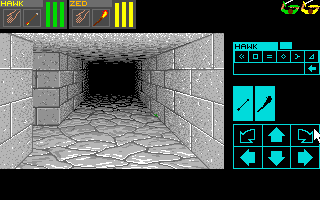
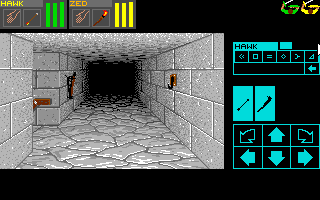
2026-10-09 v 25

diff --git a/Assets/Editor/ViewportLayoutEditor.cs b/Assets/Editor/ViewportLayoutEditor.cs
@@ -451,6 +451,14 @@ public class ViewportLayoutEditor : EditorWindow
   private bool stairsdownS2Enabled = true;
 
   // Independent S2 LEFT calibration for (4,15) North; UI only until verified.
+  // F2 North stairs-down: separate editable calibration for (4,16) North.
+  private const string StairsdownS2F2NorthPrefsPrefix = "DM.ViewEdit.StairsdownS2F2North.";
+  private const string StairsdownS2F2NorthAccepted = "32|95|false|true";
+  private int stairsdownS2F2NorthX = 0;
+  private int stairsdownS2F2NorthTopY = 96;
+  private bool stairsdownS2F2NorthMirror;
+  private bool stairsdownS2F2NorthEnabled = true;
+
   private const string StairsdownS2LeftPrefsPrefix = "DM.ViewEdit.StairsdownS2Left.";
   private const string StairsdownS2LeftAccepted = "0|106|false|true";
   private int stairsdownS2LeftX;
@@ -17128,6 +17136,9 @@ private static void HandleGameViewPointerDown(
     // Independent North-facing S0 side detail.
     BlitStairsS0NorthIntoPreview(pixels);
 
+    // Calibrated 20x39 down-stairs image at 4,16 North (independent S2 F2 case).
+    BlitStairsdownS2F2NorthIntoPreview(pixels);
+
     // All floor features and wall ornaments are composed only after the full
     // map/wall/door image pass has finished. This keeps feature artwork out of
     // the geometry painter order and gives it one explicit post-map layer.
@@ -20972,6 +20983,10 @@ private static void HandleGameViewPointerDown(
     stairsdownS2TopY = EditorPrefs.GetInt(StairsdownS2PrefsPrefix + "Y", 96);
     stairsdownS2Mirror = EditorPrefs.GetBool(StairsdownS2PrefsPrefix + "Mirror", false);
     stairsdownS2Enabled = EditorPrefs.GetBool(StairsdownS2PrefsPrefix + "Enabled", true);
+    stairsdownS2F2NorthX = EditorPrefs.GetInt(StairsdownS2F2NorthPrefsPrefix + "X", 0);
+    stairsdownS2F2NorthTopY = EditorPrefs.GetInt(StairsdownS2F2NorthPrefsPrefix + "Y", 96);
+    stairsdownS2F2NorthMirror = EditorPrefs.GetBool(StairsdownS2F2NorthPrefsPrefix + "Mirror", false);
+    stairsdownS2F2NorthEnabled = EditorPrefs.GetBool(StairsdownS2F2NorthPrefsPrefix + "Enabled", true);
     stairsdownS2LeftX = EditorPrefs.GetInt(StairsdownS2LeftPrefsPrefix + "X", 0);
     stairsdownS2LeftTopY = EditorPrefs.GetInt(StairsdownS2LeftPrefsPrefix + "Y", 106);
     stairsdownS2LeftMirror = EditorPrefs.GetBool(StairsdownS2LeftPrefsPrefix + "Mirror", false);
@@ -24136,6 +24151,9 @@ private static void HandleGameViewPointerDown(
     // The D0L controls for (4,15) South are preserved unchanged.
     if (IsStairsdownS2CalibrationPose())
       DrawStairsdownS2CalibrationRow();
+    // F2 North reference (4,16): independent S2 20x39 calibration.
+    if (previewX == 4 && previewY == 16 && previewFacing == DungeonFacing.North)
+      DrawStairsdownS2F2NorthCalibrationRow();
     // North S0 reference: independent calibration; does not modify South S2 or South S0.
     if (previewX == 4 && previewY == 15 && previewFacing == DungeonFacing.North)
       DrawStairsdownS2LeftCalibrationRow();
@@ -24230,6 +24248,36 @@ private static void HandleGameViewPointerDown(
     }
     BlitPieceIntoPreview(pixels, sprite, stairsdownS2LeftX,
         DisplayYToUnityY(stairsdownS2LeftTopY, sprite.height), stairsdownS2LeftMirror);
+  }
+
+  private void BlitStairsdownS2F2NorthIntoPreview(Color32[] pixels)
+  {
+    if (pixels == null || !stairsdownS2F2NorthEnabled
+        || previewX != 4 || previewY != 16
+        || previewFacing != DungeonFacing.North)
+      return;
+
+    const string assetPath = "Assets/Art/Walls/Stairs/Stairsdown_S2_20x39.png";
+    Texture2D sprite = AssetDatabase.LoadAssetAtPath<Texture2D>(assetPath);
+    if (sprite == null)
+    {
+      Debug.LogError("STAIRSDOWN S2 F2 NORTH: missing asset: " + assetPath);
+      return;
+    }
+    if (sprite.width != 20 || sprite.height != 39)
+    {
+      Debug.LogError("STAIRSDOWN S2 F2 NORTH: expected 20x39, got "
+          + sprite.width + "x" + sprite.height + " at " + assetPath);
+      return;
+    }
+    if (!sprite.isReadable)
+    {
+      Debug.LogError("STAIRSDOWN S2 F2 NORTH: enable Read/Write on " + assetPath);
+      return;
+    }
+    BlitPieceIntoPreview(pixels, sprite, stairsdownS2F2NorthX,
+        DisplayYToUnityY(stairsdownS2F2NorthTopY, sprite.height),
+        stairsdownS2F2NorthMirror);
   }
 
   // Temporary calibration only. Do not generalize this S2 side view
@@ -24378,6 +24426,116 @@ private static void HandleGameViewPointerDown(
     }
     if (apply)
       SaveStairsdownS2AcceptedToSource();
+  }
+
+  private bool SaveStairsdownS2F2NorthAcceptedToSource()
+  {
+    string assetPath = GetThisEditorSourceAssetPath();
+    if (string.IsNullOrEmpty(assetPath) || !File.Exists(assetPath))
+    {
+      Debug.LogError("STAIRSDOWN S2 Apply: source script is missing: " + assetPath);
+      return false;
+    }
+    const string token = "private const string StairsdownS2F2NorthAccepted = \"";
+    try
+    {
+      string source = File.ReadAllText(assetPath);
+      int begin = source.IndexOf(token, System.StringComparison.Ordinal);
+      if (begin < 0 || source.IndexOf(token, begin + token.Length,
+          System.StringComparison.Ordinal) >= 0)
+      {
+        Debug.LogError("STAIRSDOWN S2 Apply: expected exactly one saved-values marker in " + assetPath);
+        return false;
+      }
+      int valueBegin = begin + token.Length;
+      int valueEnd = source.IndexOf('"', valueBegin);
+      if (valueEnd < 0)
+      {
+        Debug.LogError("STAIRSDOWN S2 Apply: unterminated saved-values marker in " + assetPath);
+        return false;
+      }
+      string accepted = stairsdownS2F2NorthX.ToString() + "|" + stairsdownS2F2NorthTopY.ToString()
+          + "|" + (stairsdownS2F2NorthMirror ? "true" : "false")
+          + "|" + (stairsdownS2F2NorthEnabled ? "true" : "false");
+      string updated = source.Substring(0, valueBegin) + accepted + source.Substring(valueEnd);
+      if (updated != source)
+        File.WriteAllText(assetPath, updated);
+      // Preserve values through the pending Unity domain/script reload.
+      EditorPrefs.SetInt(StairsdownS2F2NorthPrefsPrefix + "X", stairsdownS2F2NorthX);
+      EditorPrefs.SetInt(StairsdownS2F2NorthPrefsPrefix + "Y", stairsdownS2F2NorthTopY);
+      EditorPrefs.SetBool(StairsdownS2F2NorthPrefsPrefix + "Mirror", stairsdownS2F2NorthMirror);
+      EditorPrefs.SetBool(StairsdownS2F2NorthPrefsPrefix + "Enabled", stairsdownS2F2NorthEnabled);
+      RefreshEditModePreview();
+      RepaintGameViews();
+      Repaint();
+      if (updated != source)
+        AssetDatabase.ImportAsset(assetPath, ImportAssetOptions.ForceUpdate);
+      return true;
+    }
+    catch (System.Exception exception)
+    {
+      Debug.LogError("STAIRSDOWN S2 Apply: failed to save source: " + exception);
+      return false;
+    }
+  }
+
+  private void DrawStairsdownS2F2NorthCalibrationRow()
+  {
+    string[] saved = StairsdownS2F2NorthAccepted.Split('|');
+    if (saved.Length != 4 || !int.TryParse(saved[0], out int acceptedX)
+        || !int.TryParse(saved[1], out int acceptedY)
+        || !bool.TryParse(saved[2], out bool acceptedMirror)
+        || !bool.TryParse(saved[3], out bool acceptedEnabled))
+    {
+      Debug.LogError("STAIRSDOWN S2 F2 NORTH: invalid saved calibration values in .cs");
+      return;
+    }
+    EditorGUILayout.BeginHorizontal();
+    float oldLabelWidth = EditorGUIUtility.labelWidth;
+    Color oldContentColor = GUI.contentColor;
+    GUIStyle style = new GUIStyle(EditorStyles.boldLabel);
+    style.normal.textColor = Color.magenta;
+    style.hover.textColor = Color.magenta;
+    style.focused.textColor = Color.magenta;
+    const string caption = "Stairsdown_S2";
+    GUILayout.Label(caption, style,
+        GUILayout.Width(style.CalcSize(new GUIContent(caption)).x));
+    GUILayout.Space(8f);
+    float enabledWidth = EditorStyles.label.CalcSize(new GUIContent("Enabled")).x;
+    EditorGUIUtility.labelWidth = enabledWidth;
+    GUI.contentColor = stairsdownS2F2NorthEnabled != acceptedEnabled ? Color.red : oldContentColor;
+    bool enabled = DrawMouseOnlyToggle(
+        "Enabled", stairsdownS2F2NorthEnabled, stairsdownS2F2NorthEnabled,
+        GUILayout.Width(enabledWidth + 18f), GUILayout.ExpandWidth(false));
+    EditorGUIUtility.labelWidth = EditorStyles.label.CalcSize(new GUIContent("X")).x;
+    GUI.contentColor = stairsdownS2F2NorthX != acceptedX ? Color.red : oldContentColor;
+    int x = stairsdownS2F2NorthX;
+    bool xChanged = DrawIntStepperInline("X", ref x, snap, false, true, 24f, 24f);
+    EditorGUIUtility.labelWidth = EditorStyles.label.CalcSize(new GUIContent("Y")).x;
+    GUI.contentColor = stairsdownS2F2NorthTopY != acceptedY ? Color.red : oldContentColor;
+    int y = stairsdownS2F2NorthTopY;
+    bool yChanged = DrawIntStepperInline("Y", ref y, snap, false, true, 24f, 24f);
+    GUILayout.Space(6f);
+    GUI.contentColor = stairsdownS2F2NorthMirror != acceptedMirror ? Color.red : oldContentColor;
+    bool mirror = EditorGUILayout.ToggleLeft("Mirror", stairsdownS2F2NorthMirror, GUILayout.Width(66f));
+    GUI.contentColor = oldContentColor;
+    bool apply = GUILayout.Button("Apply", GUILayout.Width(58f), GUILayout.ExpandWidth(false));
+    NoteContentRight();
+    EditorGUIUtility.labelWidth = oldLabelWidth;
+    EditorGUILayout.EndHorizontal();
+    if (enabled != stairsdownS2F2NorthEnabled || (xChanged && x != stairsdownS2F2NorthX)
+        || (yChanged && y != stairsdownS2F2NorthTopY) || mirror != stairsdownS2F2NorthMirror)
+    {
+      stairsdownS2F2NorthEnabled = enabled;
+      stairsdownS2F2NorthX = x;
+      stairsdownS2F2NorthTopY = y;
+      stairsdownS2F2NorthMirror = mirror;
+      RefreshEditModePreview();
+      RepaintGameViews();
+      Repaint();
+    }
+    if (apply)
+      SaveStairsdownS2F2NorthAcceptedToSource();
   }
 
   private bool SaveStairsdownS2LeftAcceptedToSource()
